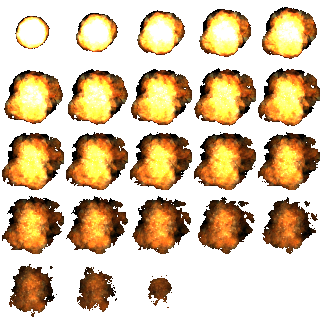
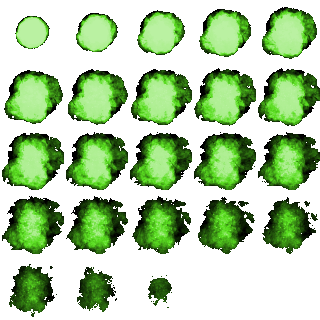
added more visual style to the game

diff --git a/app/assets/javascripts/main.js b/app/assets/javascripts/main.js
@@ -49,7 +49,7 @@ function createBanelings(num_active) {
         else
             baneling.reset(game.world.randomX, 600);
 
-        game.physics.moveToXY(baneling, game.world.centerX, game.world.centerY, 80);    
+        game.physics.moveToXY(baneling, game.world.randomX, game.world.randomY, 60);    
         baneling.events.onKilled.add(playExplosion, baneling);
     }
 }
@@ -86,17 +86,17 @@ function createText() {
 
     num_timewarps = 2;
     timewarp_text = game.add.text(700, 575, "Time Warps:" + num_timewarps, 
-        { font: "24px Arial", fill: "#ff0044" });
+        { font: "24px Arial", fill: "#0061d8" });
     timewarp_text.anchor.setTo(0.5, 0.5);
 
     num_forcefields = 3;
     forcefield_text = game.add.text(500, 575, "Forcefields" + num_forcefields, 
-        { font: "24px Arial", fill: "#ff0044" });
+        { font: "24px Arial", fill: "#0061d8" });
     forcefield_text.anchor.setTo(0.5, 0.5);
 
     prompt_content = "";
-    prompt_text = game.add.text(650, 36, prompt_content, 
-        { font: "36px Arial", fill: "#ff0044" });
+    prompt_text = game.add.text(600, 36, prompt_content, 
+        { font: "36px Arial", fill: "#000000" });
     prompt_text.anchor.setTo(0.5, 0.5);
 }
 
@@ -126,7 +126,7 @@ function advanceRound() {
 }
 
 function restart() {
-    marines.callAll('revive');
+    // marines.callAll('revive');
     marines.setAll('alpha', 0.5)
  
     banelings.removeAll();
@@ -145,6 +145,7 @@ function createForcefield() {
         var forcefield = forcefields.create(game.input.activePointer.x, game.input.activePointer.y, 'forcefield');
         forcefield.anchor.setTo(0.5, 0.5);
         forcefield.health = 5
+        forcefield.body.angularVelocity = 50;
         num_forcefields -= 1;
     }
 }
@@ -156,8 +157,12 @@ function timeWarp() {
             baneling.body.velocity.x = baneling.body.velocity.x/2;
             baneling.body.velocity.y = baneling.body.velocity.y/2;
 
+            baneling.loadTexture('baneling-slow', 0);
+            baneling.body.angularVelocity = 100;
         });
         num_timewarps -= 1;
+        prompt_content = "Time Warp Activated";
+
     }  
 }
 
@@ -185,16 +190,20 @@ function banelingHitForcefield(baneling, forcefield) {
 
 
 function preload() {
-     game.load.image('background','assets/green_cup.png');
-     game.load.spritesheet('marine', 'assets/marine.png', 30, 30);
-     game.load.spritesheet('baneling', 'assets/baneling.png', 25, 25);
-     game.load.spritesheet('boom', 'assets/explosion.png', 64, 64, 23);
-     game.load.spritesheet('forcefield', 'assets/block.png', 95, 95)
+    game.load.image('background','assets/green_cup.png', 256, 256);
+    game.load.spritesheet('marine', 'assets/marine.png', 30, 30);
+    game.load.spritesheet('baneling', 'assets/baneling.png', 25, 25);
+    game.load.spritesheet('baneling-slow', 'assets/baneling-slow.png', 25, 25);
+    game.load.spritesheet('boom', 'assets/explosion.png', 64, 64, 23);
+    game.load.spritesheet('forcefield', 'assets/forcefield.png', 100, 87)
+
+
 }
 
 function create() {
 
 	background = game.add.tileSprite(0, 0, 800, 600, 'background');
+    // background = game.stage.backgroundColor = '#a3a3a3';
 
     marines = game.add.group();
     createMarines(4, 4);
@@ -219,6 +228,7 @@ function create() {
 
 function update() {
 
+    game.physics.collide(forcefields);
     game.physics.collide(marines);
     game.physics.collide(marines, forcefields);
 

diff --git a/app/assets/stylesheets/styles.css b/app/assets/stylesheets/styles.css
@@ -1,11 +1,8 @@
-/*#game {
-    padding-left: 0;
-    padding-right: 0;
+#game {
+
+	padding: 15px 0;
     margin-left: auto;
     margin-right: auto;
     display: block;
     width: 800px;
 }
-h2 {
-	text-align: center;
-}*/
